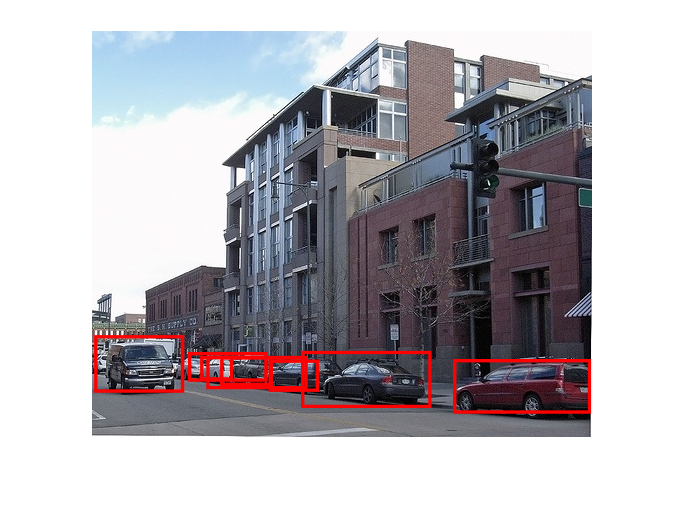
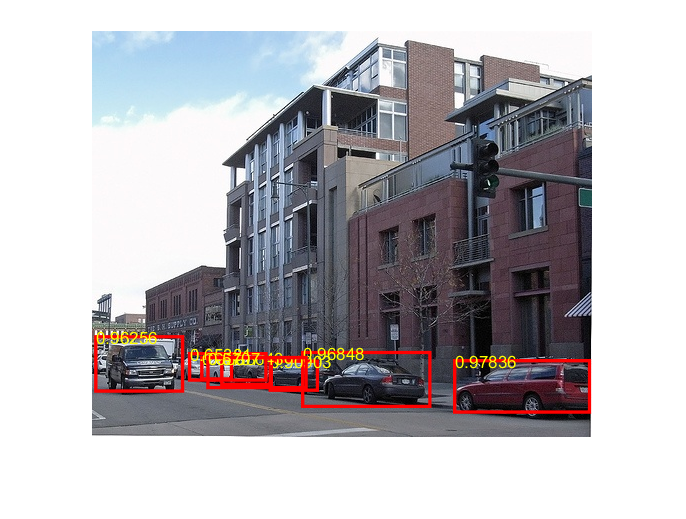
comment

Changed region(s): [[0.2755, 0.6474, 0.551, 0.7091], [0.1224, 0.6166, 0.2449, 0.6782], [0.6429, 0.6782, 0.7653, 0.7091]]

diff --git a/code/fast_rcnn/singledetect.m b/code/fast_rcnn/singledetect.m
@@ -1,3 +1,5 @@
+%%% problem2.1
+
 % current working dir: ./code/fast_rcnn
 clear all
 SET_SHORTER=600;
@@ -70,7 +72,8 @@ hold on
 above_thres = length(K_scores(K_scores>chosen_thres));
 for i=1:above_thres
     box = K_boxes(i,:);
-    rectangle('Position', x1y1towh(box),'Curvature',[0,0],'LineWidth',2,'LineStyle','-','EdgeColor','r', 'tag', num2str(K_scores(i)))
+    rectangle('Position', x1y1towh(box),'Curvature',[0,0],'LineWidth',2,'LineStyle','-','EdgeColor','r')
+    text(box(1),box(2), num2str(K_scores(i)), 'Color','yellow');
     hold on
 end
 

diff --git a/code/fast_rcnn/README.md b/code/fast_rcnn/README.md
@@ -1,0 +1,7 @@
+Problem 2.1 entrance: singledetect.m
+Problem 2.2 entrance: detect_all_imgs.m
+
+Helpers:
+get_top_k.m  (after nms)
+should_suppress.m
+x1y1towh.m  ([x0 y0 x1 y1] for CNN -> [x0 y0 w h] for MATLAB retangles)
